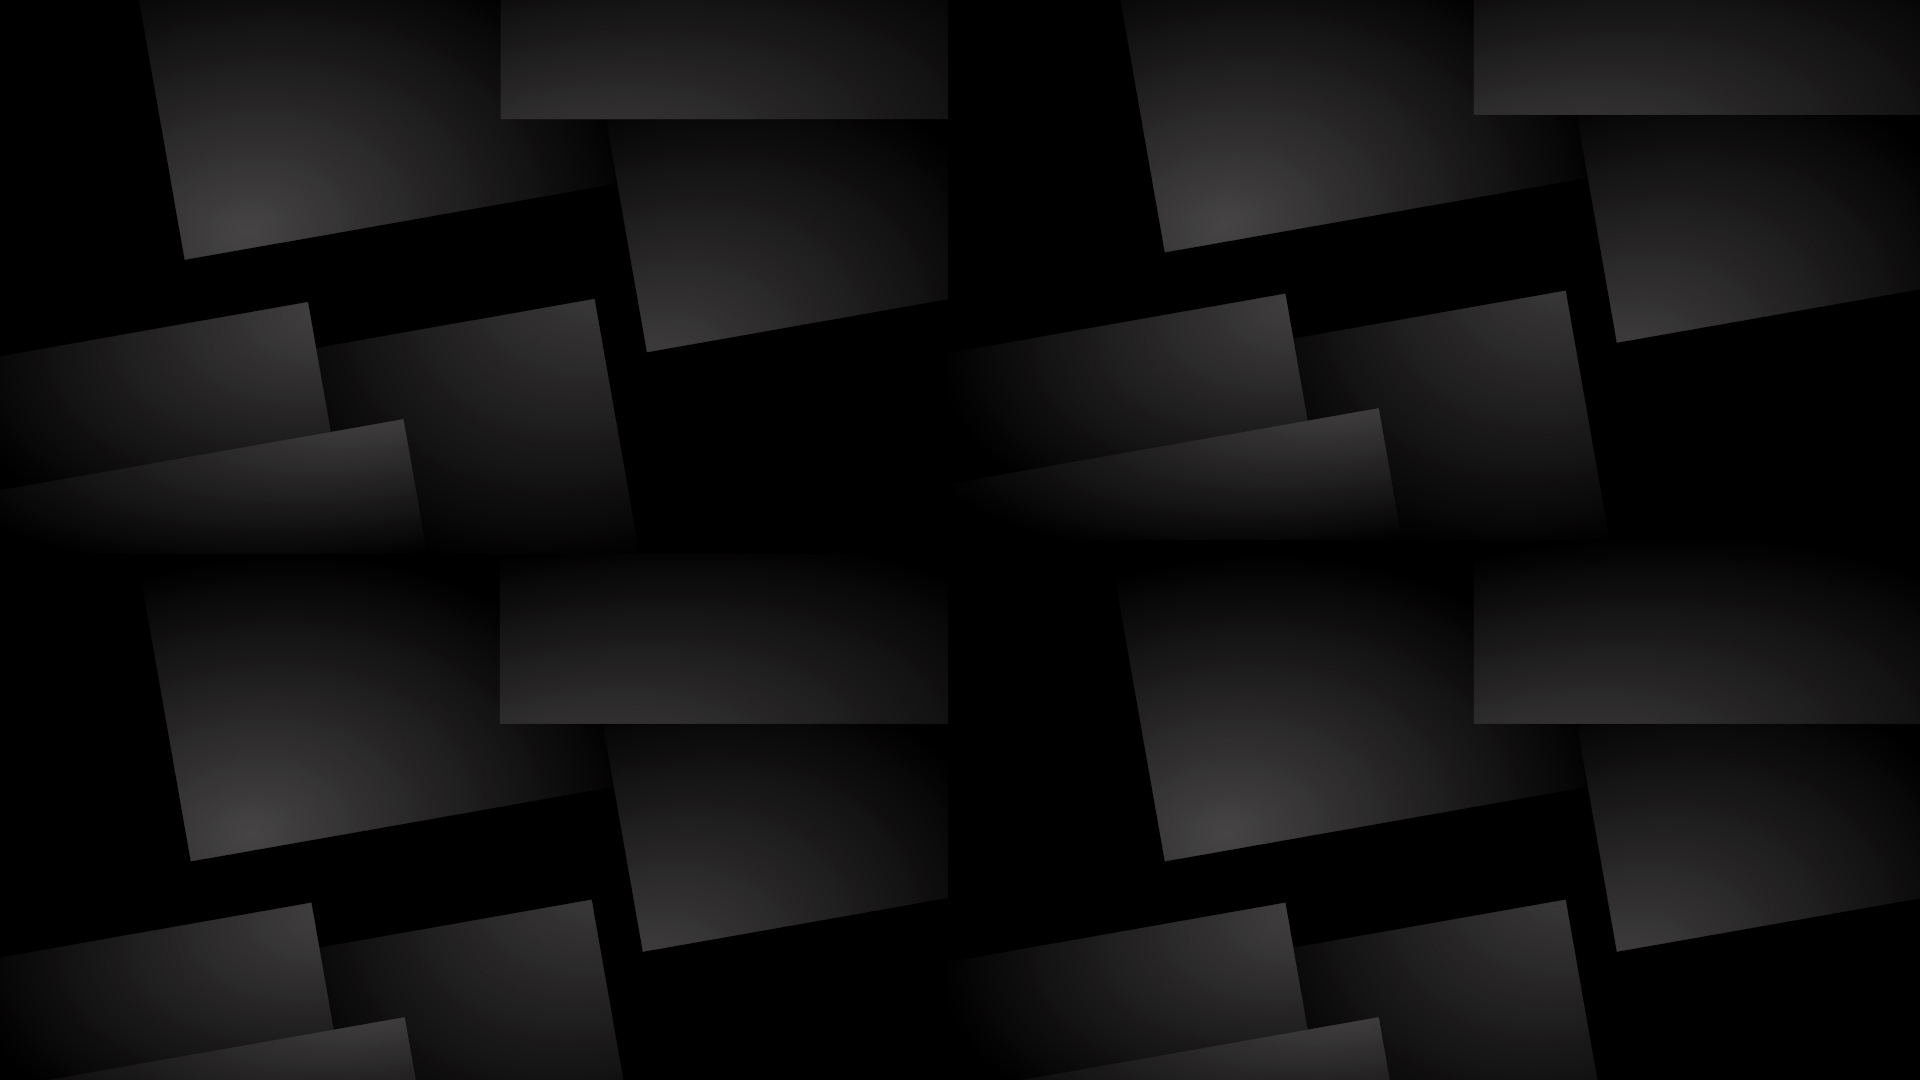
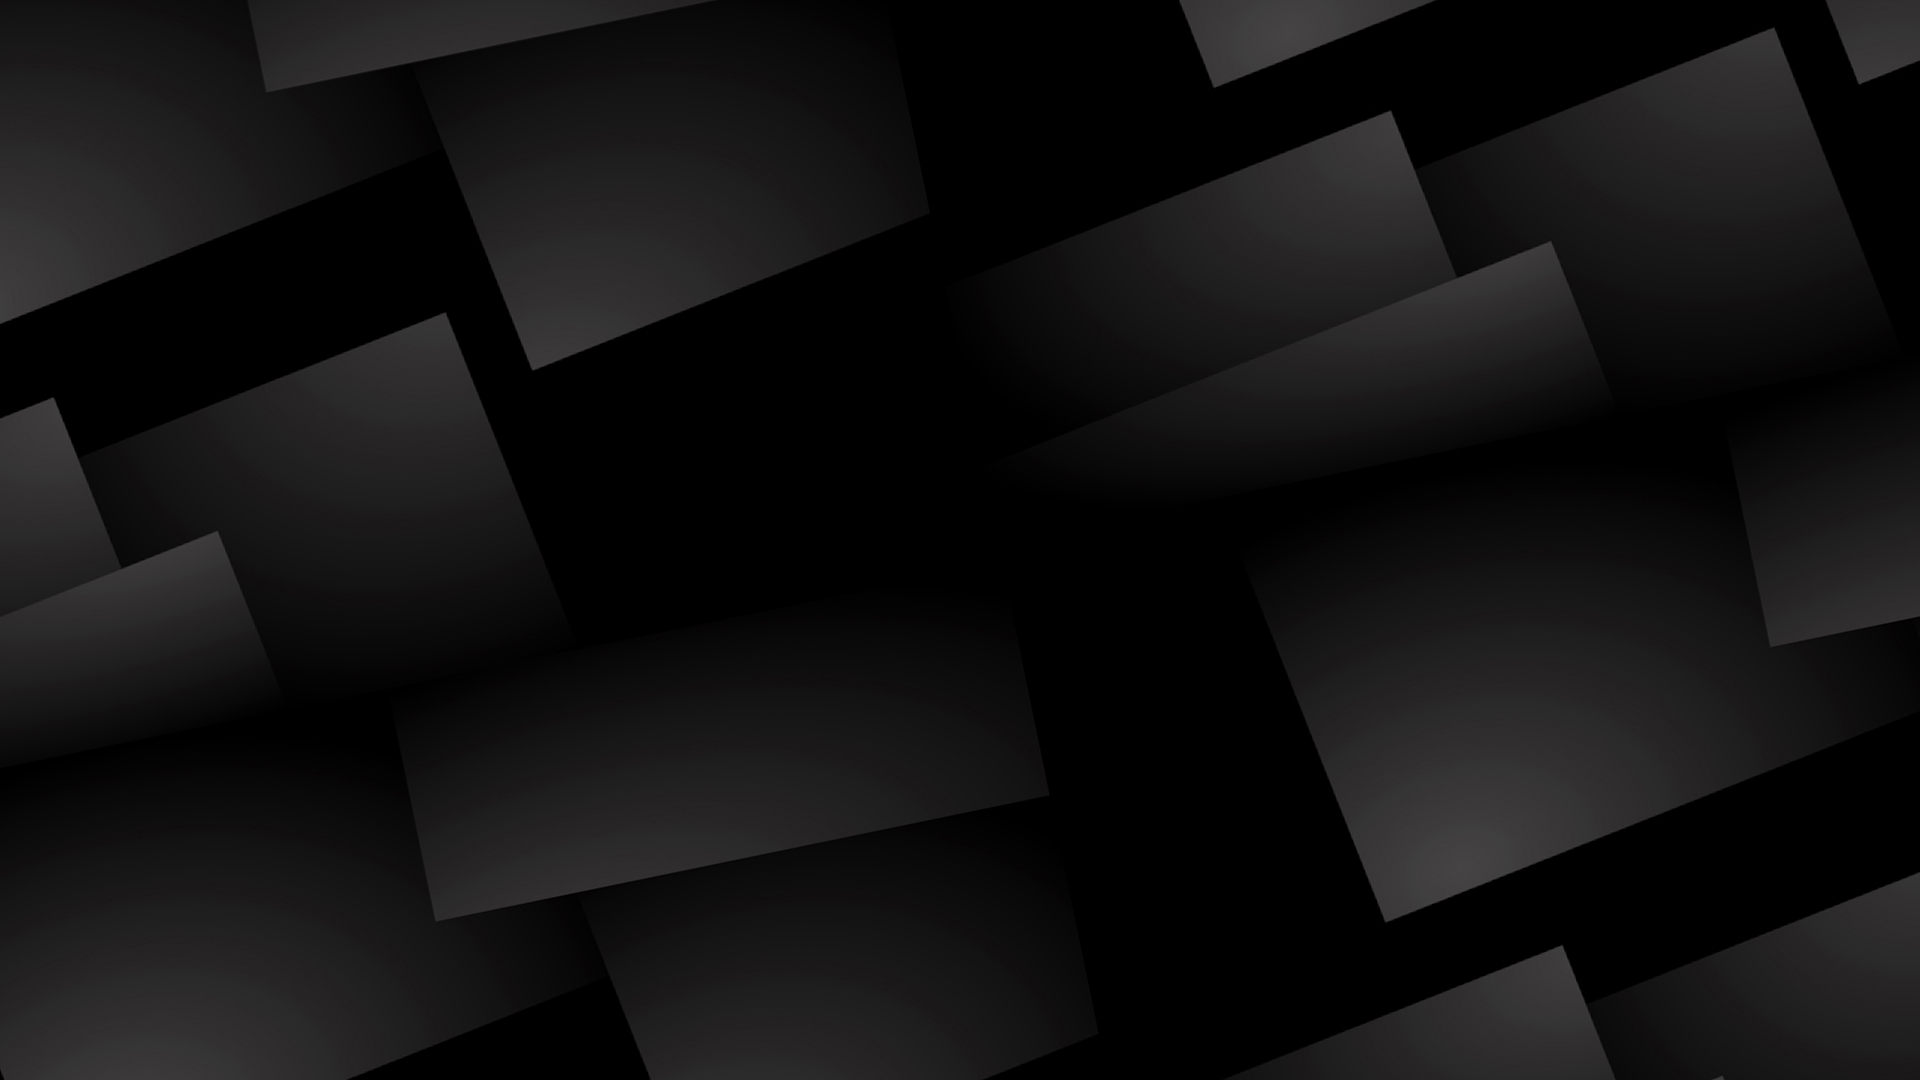
18th Commit

diff --git a/src/styles/_base.scss b/src/styles/_base.scss
@@ -150,7 +150,7 @@ ul {
   height: 42vmax;
   border-radius: 50%;
   filter: blur(90px);
-  opacity: calc(var(--glow-opacity) * 0.3);
+  opacity: calc(var(--glow-opacity) * 0.16);
   will-change: transform;
 }
 
@@ -195,8 +195,8 @@ ul {
   z-index: -1;
   pointer-events: none;
   background:
-    radial-gradient(circle at 16% 6%, rgba(255, 107, 53, 0.13), transparent 34%),
-    radial-gradient(circle at 84% 2%, rgba(255, 178, 56, 0.08), transparent 30%);
+    radial-gradient(circle at 16% 6%, rgba(255, 107, 53, 0.07), transparent 34%),
+    radial-gradient(circle at 84% 2%, rgba(255, 178, 56, 0.045), transparent 30%);
   mask-image: linear-gradient(to bottom, black 40%, transparent 100%);
   -webkit-mask-image: linear-gradient(to bottom, black 40%, transparent 100%);
   animation: mesh-breathe 18s ease-in-out infinite;
